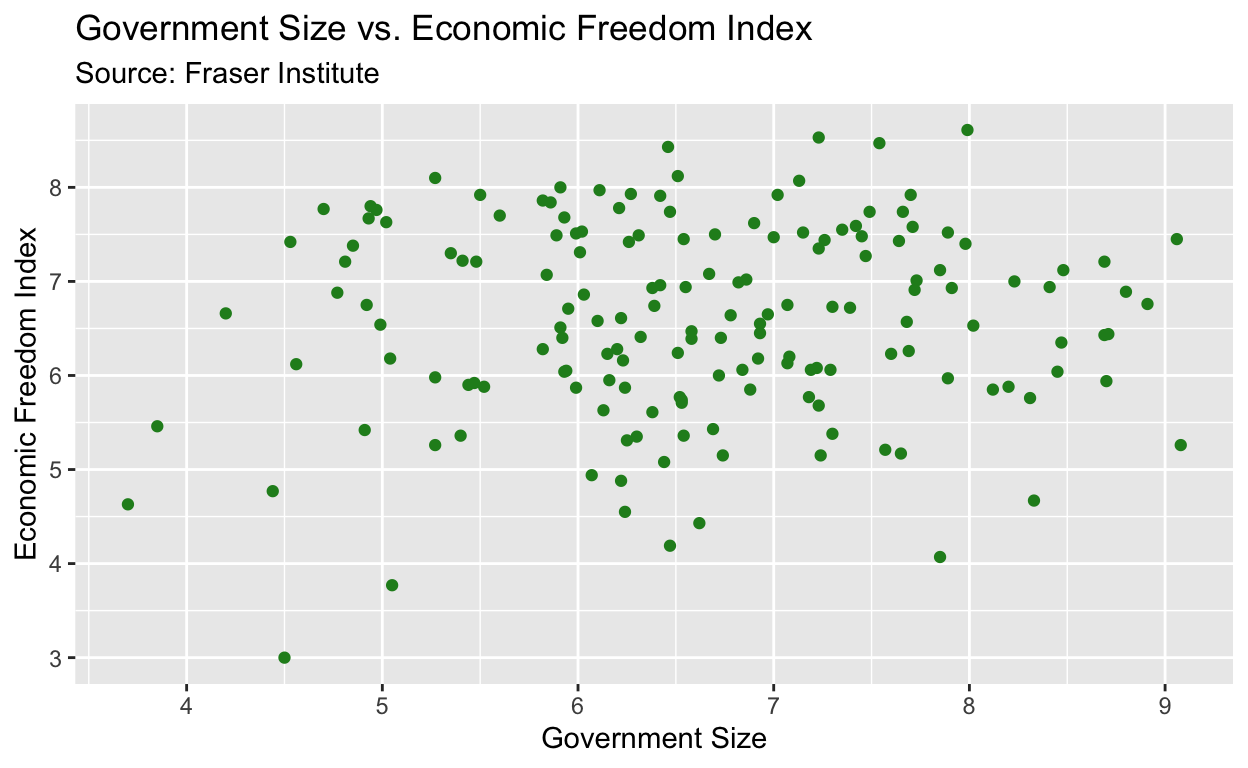
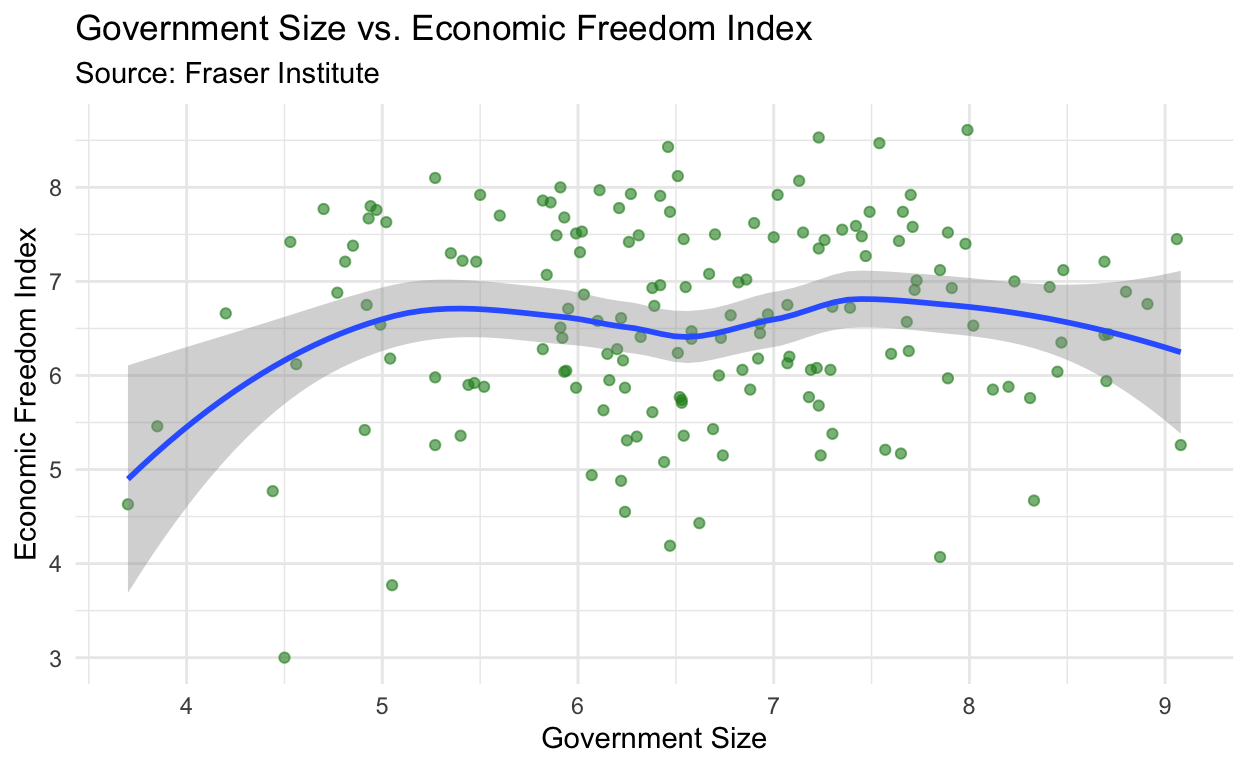
Milestone 4

diff --git a/index.html b/index.html
@@ -115,7 +115,7 @@ code span.wa { color: #5e5e5e; font-style: italic; } /* Warning */
   <!--/radix_placeholder_rmarkdown_metadata-->
   
   <script type="text/json" id="radix-resource-manifest">
-  {"type":"character","attributes":{},"value":["economicdata2021-2021 (1).xlsx","efotw-2024-master-index-data-for-researchers-iso (1).xlsx","Fraser_data****.numbers","Fraser_data****.xlsx","index_files/anchor-4.2.2/anchor.min.js","index_files/bowser-1.9.3/bowser.min.js","index_files/distill-2.2.21/template.v2.js","index_files/figure-html5/unnamed-chunk-2-1.png","index_files/header-attrs-2.17/header-attrs.js","index_files/header-attrs-2.28/header-attrs.js","index_files/jquery-3.6.0/jquery-3.6.0.js","index_files/jquery-3.6.0/jquery-3.6.0.min.js","index_files/jquery-3.6.0/jquery-3.6.0.min.map","index_files/popper-2.6.0/popper.min.js","index_files/tippy-6.2.7/tippy-bundle.umd.min.js","index_files/tippy-6.2.7/tippy-light-border.css","index_files/tippy-6.2.7/tippy.css","index_files/tippy-6.2.7/tippy.umd.min.js","index_files/webcomponents-2.0.0/webcomponents.js"]}
+  {"type":"character","attributes":{},"value":["economicdata2021-2021 (1).xlsx","efotw-2024-master-index-data-for-researchers-iso (1).xlsx","Fraser_data****.numbers","Fraser_data****.xlsx","index_files/anchor-4.2.2/anchor.min.js","index_files/bowser-1.9.3/bowser.min.js","index_files/distill-2.2.21/template.v2.js","index_files/figure-html5/unnamed-chunk-2-1.png","index_files/figure-html5/unnamed-chunk-3-1.png","index_files/header-attrs-2.17/header-attrs.js","index_files/header-attrs-2.28/header-attrs.js","index_files/jquery-3.6.0/jquery-3.6.0.js","index_files/jquery-3.6.0/jquery-3.6.0.min.js","index_files/jquery-3.6.0/jquery-3.6.0.min.map","index_files/popper-2.6.0/popper.min.js","index_files/tippy-6.2.7/tippy-bundle.umd.min.js","index_files/tippy-6.2.7/tippy-light-border.css","index_files/tippy-6.2.7/tippy.css","index_files/tippy-6.2.7/tippy.umd.min.js","index_files/webcomponents-2.0.0/webcomponents.js"]}
   </script>
   <!--radix_placeholder_navigation_in_header-->
   <!--/radix_placeholder_navigation_in_header-->
@@ -1497,7 +1497,7 @@ code span.wa { color: #5e5e5e; font-style: italic; } /* Warning */
   </script>
 
   <!--/radix_placeholder_distill-->
-  <script src="index_files/header-attrs-2.28/header-attrs.js"></script>
+  <script src="index_files/header-attrs-2.29/header-attrs.js"></script>
   <script src="index_files/jquery-3.6.0/jquery-3.6.0.min.js"></script>
   <script src="index_files/popper-2.6.0/popper.min.js"></script>
   <link href="index_files/tippy-6.2.7/tippy.css" rel="stylesheet" />
@@ -1546,7 +1546,7 @@ code span.wa { color: #5e5e5e; font-style: italic; } /* Warning */
 <h2 id="project-thoughts">Project thoughts</h2>
 <p>I am interested in exploring data related to conventions and whether or not the state turns to them when conventions are held there. I am also interested in looking at third party prevalence in America, such as where most people vote third party, what elections (national, gubernatorial, municipal) receive a bigger proportion of third party votes, and so on. Perhaps something even related to finance and politicians, where politicians choose to invest. Maybe something to do with federal spending and interest rates over time based on presidency and party. I am mainly concerned about how I will be able to formulate this as my skills in R are rudimentary, but I have no shortage of ideas as to what topics I would want to research and compile into a database.</p>
 <p><a href="https://www.fraserinstitute.org/economic-freedom/dataset?geozone=world&amp;page=dataset&amp;min-year=2&amp;max-year=0&amp;filter=0&amp;year=2021" class="uri">https://www.fraserinstitute.org/economic-freedom/dataset?geozone=world&amp;page=dataset&amp;min-year=2&amp;max-year=0&amp;filter=0&amp;year=2021</a></p>
-<p>Does the size of government impact a nation’s economic freedom? In this experiment, I plan to study how the sizes of governments influence a nation’s ability to trade freely. My hypothesis is that a larger government, characterized by higher spending and greater regulatory control, will lead to more regulation on trade, and thus lower levels of economic freedom. This is grounded in the theory that larger governments often impose higher taxes and introduce more regulations which distort market functions, limit individual decision making, and reduce a nation’s trade openness. Using data from the Fraser Institute on world economics, my explanatory variable will be variables such as size of government, which includes data regarding government consumption, subsidies, and state asset ownership. These indicators are scored on a scale from 0 to 10, 0 representing minimal government involvement and 10 maximum involvement. Other variables may include legal system efficiency, protection of property rights, and freedom to trade internationally, all of which may interact with government size to impact economic freedom. The dependent variable will be the overall economic freedom score, once again scaled from 0 to 10, 10 indicating the highest level of freedom. I expect to observe a negative correlation between government size and economic freedom. More importantly, a positive correlation between government size and economic freedom would disprove my hypothesis.</p>
+<p>Does the size of government impact a nation’s economic freedom? In this experiment, I plan to study how the sizes of governments influence a nation’s ability to trade freely. My hypothesis is that a larger government, characterized by higher spending and greater regulatory control, will lead to more regulation on trade, and thus lower levels of economic freedom. This is grounded in the theory that larger governments often impose higher taxes and introduce more regulations which distort market functions, limit individual decision making, and reduce a nation’s trade openness. Using data from the Fraser Institute on world economics, my explanatory variable will be variables such as size of government, which includes data regarding government consumption, subsidies, and state asset ownership. These indicators are scored on a scale from 0 to 10, 0 representing minimal government involvement and 10 maximum involvement. Other variables may include legal system efficiency, protection of property rights, government regulation, and freedom to trade internationally, all of which may interact with government size to impact economic freedom. The dependent variable will be the overall economic freedom score, once again scaled from 0 to 10, 10 indicating the highest level of freedom. I expect to observe a negative correlation between government size and economic freedom. More importantly, a positive correlation between government size and economic freedom would disprove my hypothesis.</p>
 <p>Loading the data from Fraser Institute</p>
 <div class="layout-chunk" data-layout="l-body">
 <div class="sourceCode">
@@ -1589,14 +1589,34 @@ code span.wa { color: #5e5e5e; font-style: italic; } /* Warning */
 <div class="sourceCode">
 <pre class="sourceCode r"><code class="sourceCode r"><span><span class='va'>Fraser_data</span> <span class='op'>|&gt;</span></span>
 <span><span class='fu'><a href='https://ggplot2.tidyverse.org/reference/ggplot.html'>ggplot</a></span><span class='op'>(</span>mapping <span class='op'>=</span> <span class='fu'><a href='https://ggplot2.tidyverse.org/reference/aes.html'>aes</a></span><span class='op'>(</span>x <span class='op'>=</span> <span class='va'>govt_size</span>, y <span class='op'>=</span> <span class='va'>efi</span><span class='op'>)</span><span class='op'>)</span><span class='op'>+</span></span>
-<span>       <span class='fu'><a href='https://ggplot2.tidyverse.org/reference/geom_point.html'>geom_point</a></span><span class='op'>(</span>color <span class='op'>=</span> <span class='st'>"forestgreen"</span><span class='op'>)</span><span class='op'>+</span></span>
+<span>       <span class='fu'><a href='https://ggplot2.tidyverse.org/reference/geom_point.html'>geom_point</a></span><span class='op'>(</span>color <span class='op'>=</span> <span class='st'>"forestgreen"</span>, alpha <span class='op'>=</span> <span class='fl'>0.6</span><span class='op'>)</span><span class='op'>+</span></span>
+<span>  <span class='fu'><a href='https://ggplot2.tidyverse.org/reference/geom_smooth.html'>geom_smooth</a></span><span class='op'>(</span><span class='op'>)</span> <span class='op'>+</span></span>
 <span>  <span class='fu'><a href='https://ggplot2.tidyverse.org/reference/labs.html'>labs</a></span><span class='op'>(</span>title <span class='op'>=</span> <span class='st'>"Government Size vs. Economic Freedom Index"</span>,</span>
 <span>       x <span class='op'>=</span> <span class='st'>"Government Size"</span>, </span>
 <span>      y <span class='op'>=</span> <span class='st'>"Economic Freedom Index"</span>,</span>
-<span>      subtitle <span class='op'>=</span> <span class='st'>"Source: Fraser Institute"</span><span class='op'>)</span></span></code></pre>
+<span>      subtitle <span class='op'>=</span> <span class='st'>"Source: Fraser Institute"</span><span class='op'>)</span> <span class='op'>+</span></span>
+<span>  <span class='fu'><a href='https://ggplot2.tidyverse.org/reference/ggtheme.html'>theme_minimal</a></span><span class='op'>(</span><span class='op'>)</span></span></code></pre>
 </div>
 <p><img src="index_files/figure-html5/unnamed-chunk-2-1.png" width="624" /></p>
 </div>
+<p>Analysis</p>
+<p>It appears that as the government size increases in the initial stages, economic freedom is seen to increase at the fastest rate. Around the freedom rankings 6 and 7 there is a slight drop, then an increase, then finally a slow decrease as the government size approaches 10. Most results seem to be clustered between the rankings of 6 and 7. at the ranking of 6.5, the approximated efi by the geom_smooth() line is a little under 6.5.the nation with the highest efi, Hong Kong, has a government size of 7.99. Overall, the relationship between government size and EFI is hard to state. One could draw the conclusion that a lack or excessive amount of government size deters economic freedom in general.</p>
+<p>Out of curiosity, let’s replace the government size variable and look at the regulation variable to explain EFI. This could show that government oversight deters entry into business, and thus a lower EFI score.</p>
+<div class="layout-chunk" data-layout="l-body">
+<div class="sourceCode">
+<pre class="sourceCode r"><code class="sourceCode r"><span><span class='va'>Fraser_data</span> <span class='op'>|&gt;</span></span>
+<span><span class='fu'><a href='https://ggplot2.tidyverse.org/reference/ggplot.html'>ggplot</a></span><span class='op'>(</span>mapping <span class='op'>=</span> <span class='fu'><a href='https://ggplot2.tidyverse.org/reference/aes.html'>aes</a></span><span class='op'>(</span>x <span class='op'>=</span> <span class='va'>regulation</span>, y <span class='op'>=</span> <span class='va'>efi</span><span class='op'>)</span><span class='op'>)</span><span class='op'>+</span></span>
+<span>       <span class='fu'><a href='https://ggplot2.tidyverse.org/reference/geom_point.html'>geom_point</a></span><span class='op'>(</span>color <span class='op'>=</span> <span class='st'>"forestgreen"</span>, alpha <span class='op'>=</span> <span class='fl'>0.6</span><span class='op'>)</span><span class='op'>+</span></span>
+<span>  <span class='fu'><a href='https://ggplot2.tidyverse.org/reference/geom_smooth.html'>geom_smooth</a></span><span class='op'>(</span><span class='op'>)</span> <span class='op'>+</span></span>
+<span>  <span class='fu'><a href='https://ggplot2.tidyverse.org/reference/labs.html'>labs</a></span><span class='op'>(</span>title <span class='op'>=</span> <span class='st'>"Government Regulation on Businesses vs. Economic Freedom Index"</span>,</span>
+<span>       x <span class='op'>=</span> <span class='st'>"Government Regulation"</span>, </span>
+<span>      y <span class='op'>=</span> <span class='st'>"Economic Freedom Index"</span>,</span>
+<span>      subtitle <span class='op'>=</span> <span class='st'>"Source: Fraser Institute"</span><span class='op'>)</span> <span class='op'>+</span></span>
+<span>  <span class='fu'><a href='https://ggplot2.tidyverse.org/reference/ggtheme.html'>theme_minimal</a></span><span class='op'>(</span><span class='op'>)</span></span></code></pre>
+</div>
+<p><img src="index_files/figure-html5/unnamed-chunk-3-1.png" width="624" /></p>
+</div>
+<p>There is a much clearer relationship here. A higher score in government regulation indicates low barriers to entry, ability for corporations to determine wages, and the extent to which the banking industry is privately controlled. While this doesn’t indicate the how big the government is, it shows how regulatory measures that protect industries, tariffs or taxes on high valued goods, and increasing costs of production ultimately lower a nations economic freedom.</p>
 <div class="sourceCode" id="cb2"><pre class="sourceCode r distill-force-highlighting-css"><code class="sourceCode r"></code></pre></div>
 <!--radix_placeholder_article_footer-->
 <!--/radix_placeholder_article_footer-->

diff --git a/index_files/header-attrs-2.29/header-attrs.js b/index_files/header-attrs-2.29/header-attrs.js
@@ -1,0 +1,12 @@
+// Pandoc 2.9 adds attributes on both header and div. We remove the former (to
+// be compatible with the behavior of Pandoc < 2.8).
+document.addEventListener('DOMContentLoaded', function(e) {
+  var hs = document.querySelectorAll("div.section[class*='level'] > :first-child");
+  var i, h, a;
+  for (i = 0; i < hs.length; i++) {
+    h = hs[i];
+    if (!/^h[1-6]$/i.test(h.tagName)) continue;  // it should be a header h1-h6
+    a = h.attributes;
+    while (a.length > 0) h.removeAttribute(a[0].name);
+  }
+});
